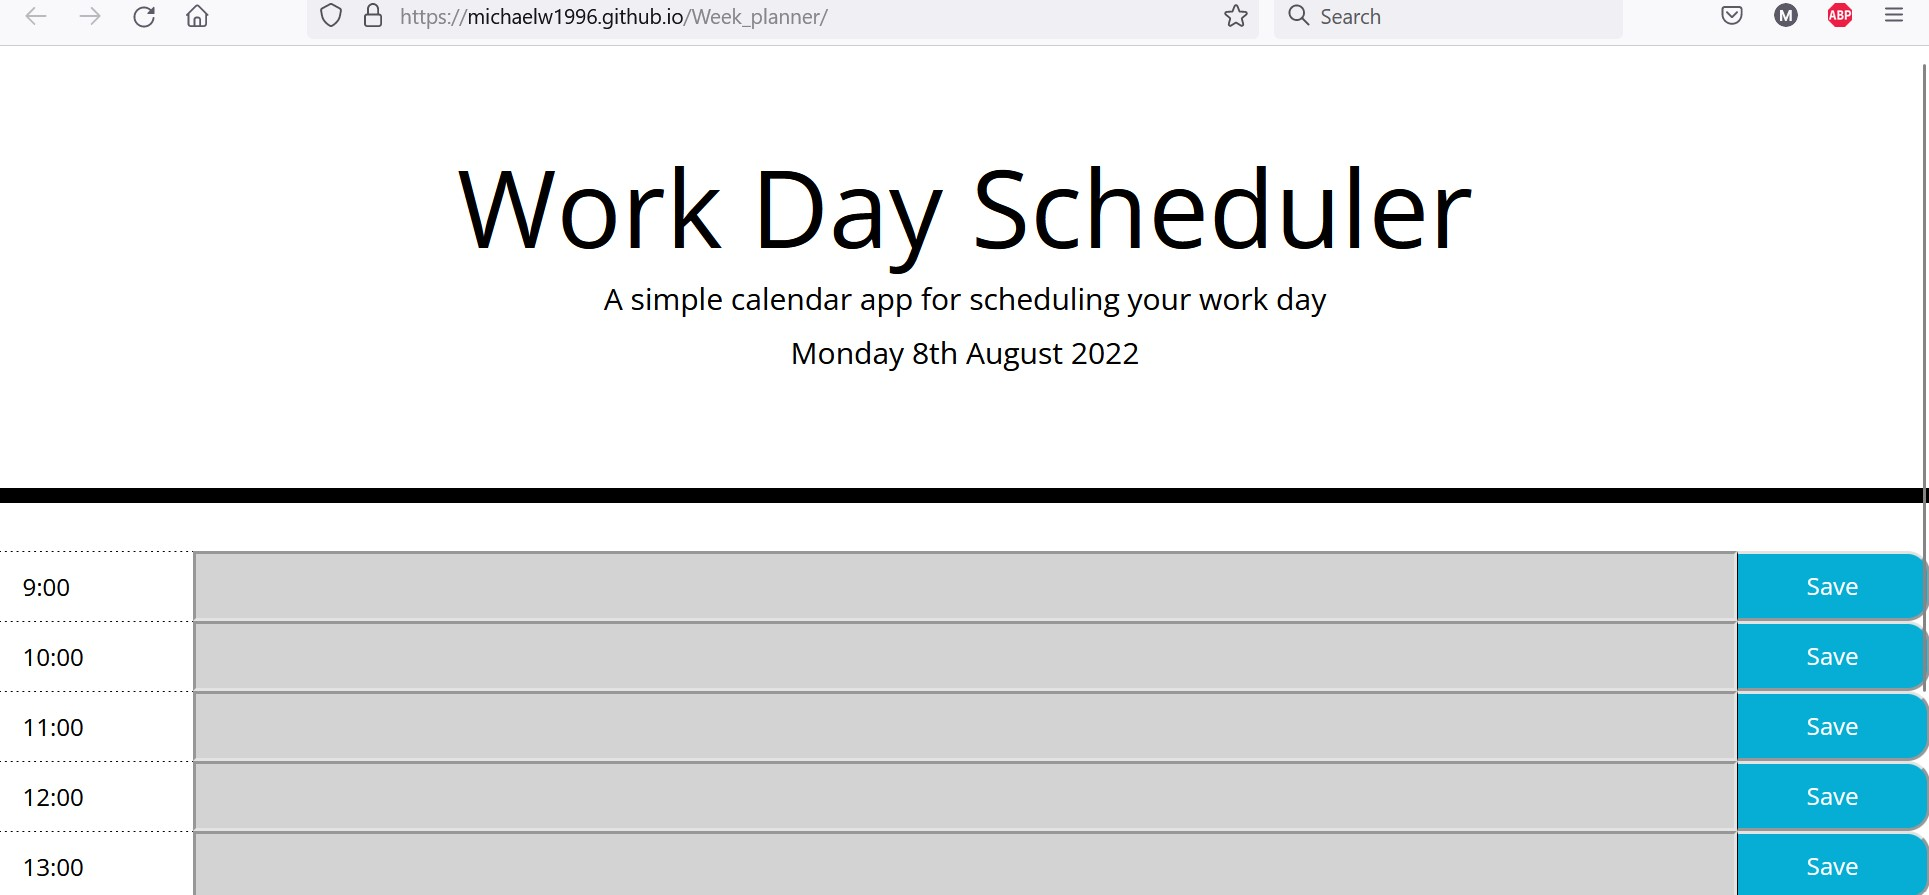
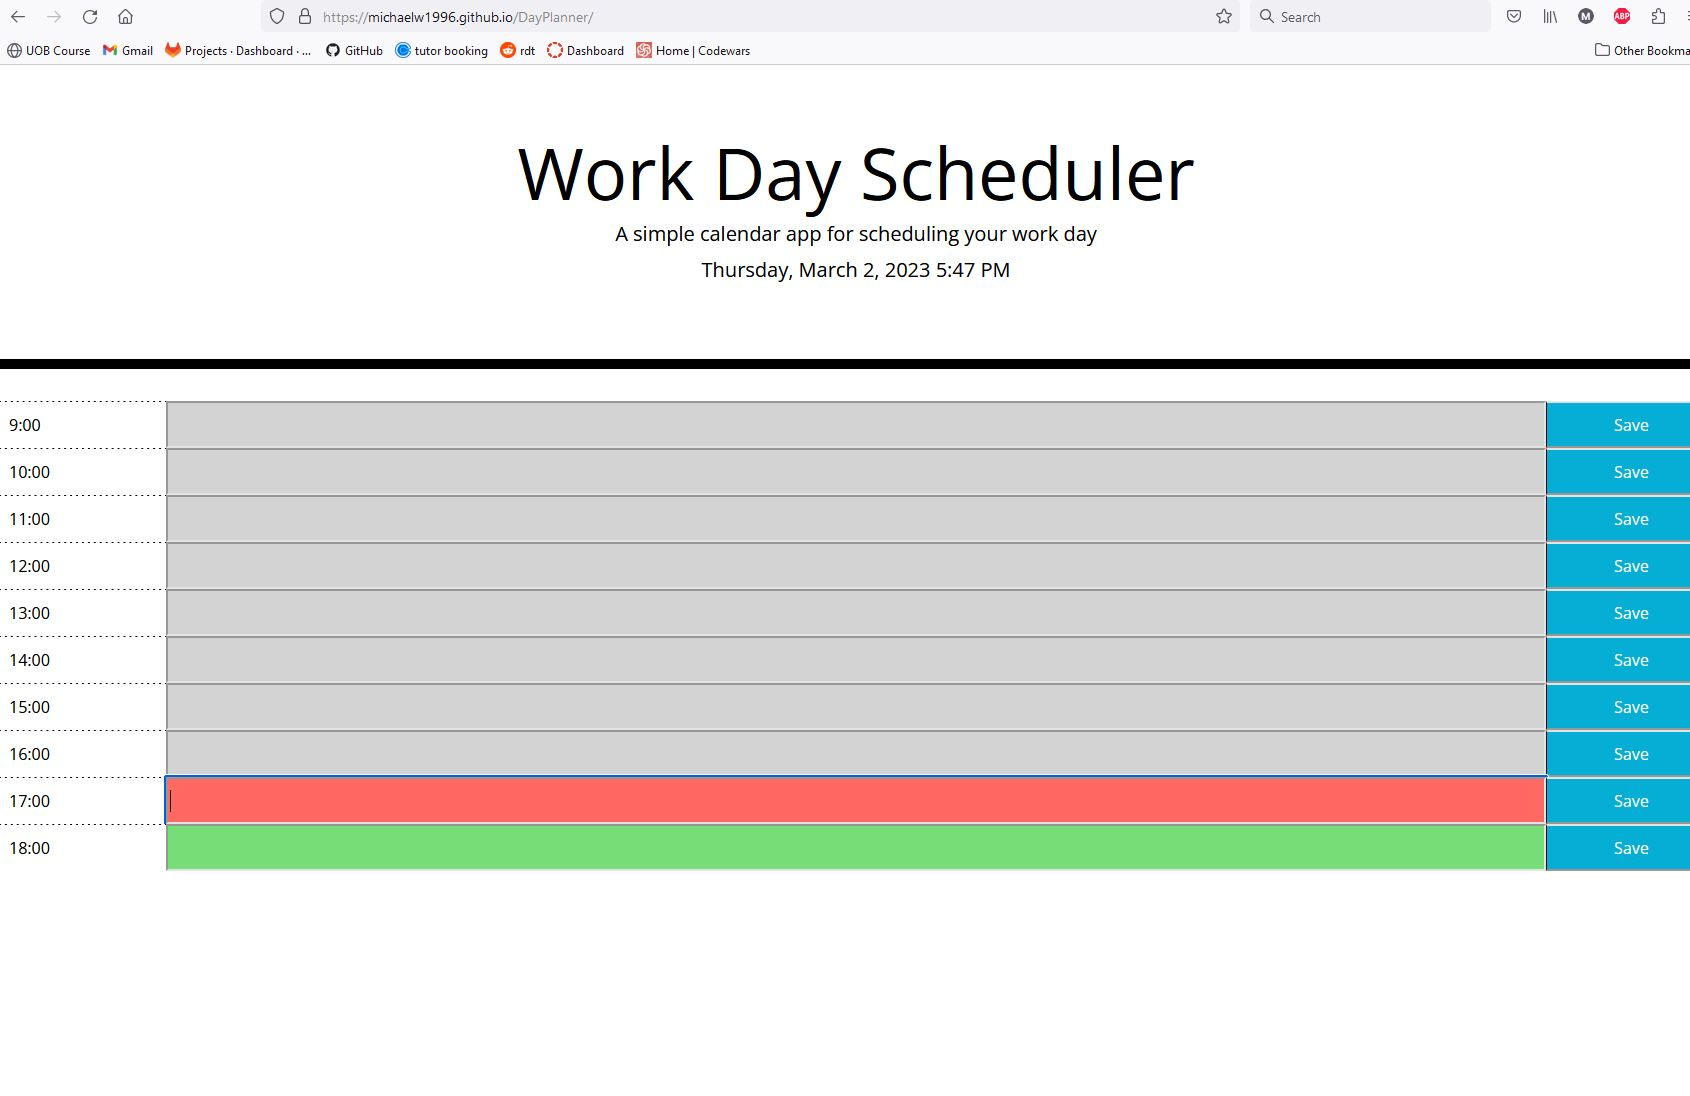
Readme Added

diff --git a/README.md b/README.md
@@ -6,7 +6,7 @@
 
 <br>
 
-Link to live site: https://michaelw1996.github.io/Week_planner/
+Link to live site: https://michaelw1996.github.io/DayPlanner/
 
 <br>
 
@@ -22,7 +22,7 @@ Creation of elements:
 
 Time based changes:
 
-    At the top of the page i have displayed the current time in my desired format using MomentJS 
+    At the top of the page i have displayed the current time & date in my desired format using MomentJS 
 
     I have then used the current time obtained with MomentJS to style the input text boxes depending on if this timeslot is in the past, present or future, this was done with conditional logic using if statements that compares the "hour" variable used to describe the slots hour with the current hour from MomentJS called "cHour". Depending on which is greater or if they are equal the blocks will be given a class which will style the text box accordingly
 
@@ -36,11 +36,13 @@ Screenshot of deployed site:
 
 ![Live site](./assets/images/LiveSite.jpg)
 
+![Data kept in local storage](./assets/images/Local.jpg)
+
 ## Code notes
 
 HTML:
 
-    No Changes from starter code made
+    Added "Timeblocks" id to container holding timeblocks for readiblity
 
 CSS:
 
@@ -48,7 +50,7 @@ CSS:
 
 JS:
 
-    Code functionality explained with a number of notes and in the above section 
+    Code functionality explained above 
 
 
 Coded by Michael Walters
